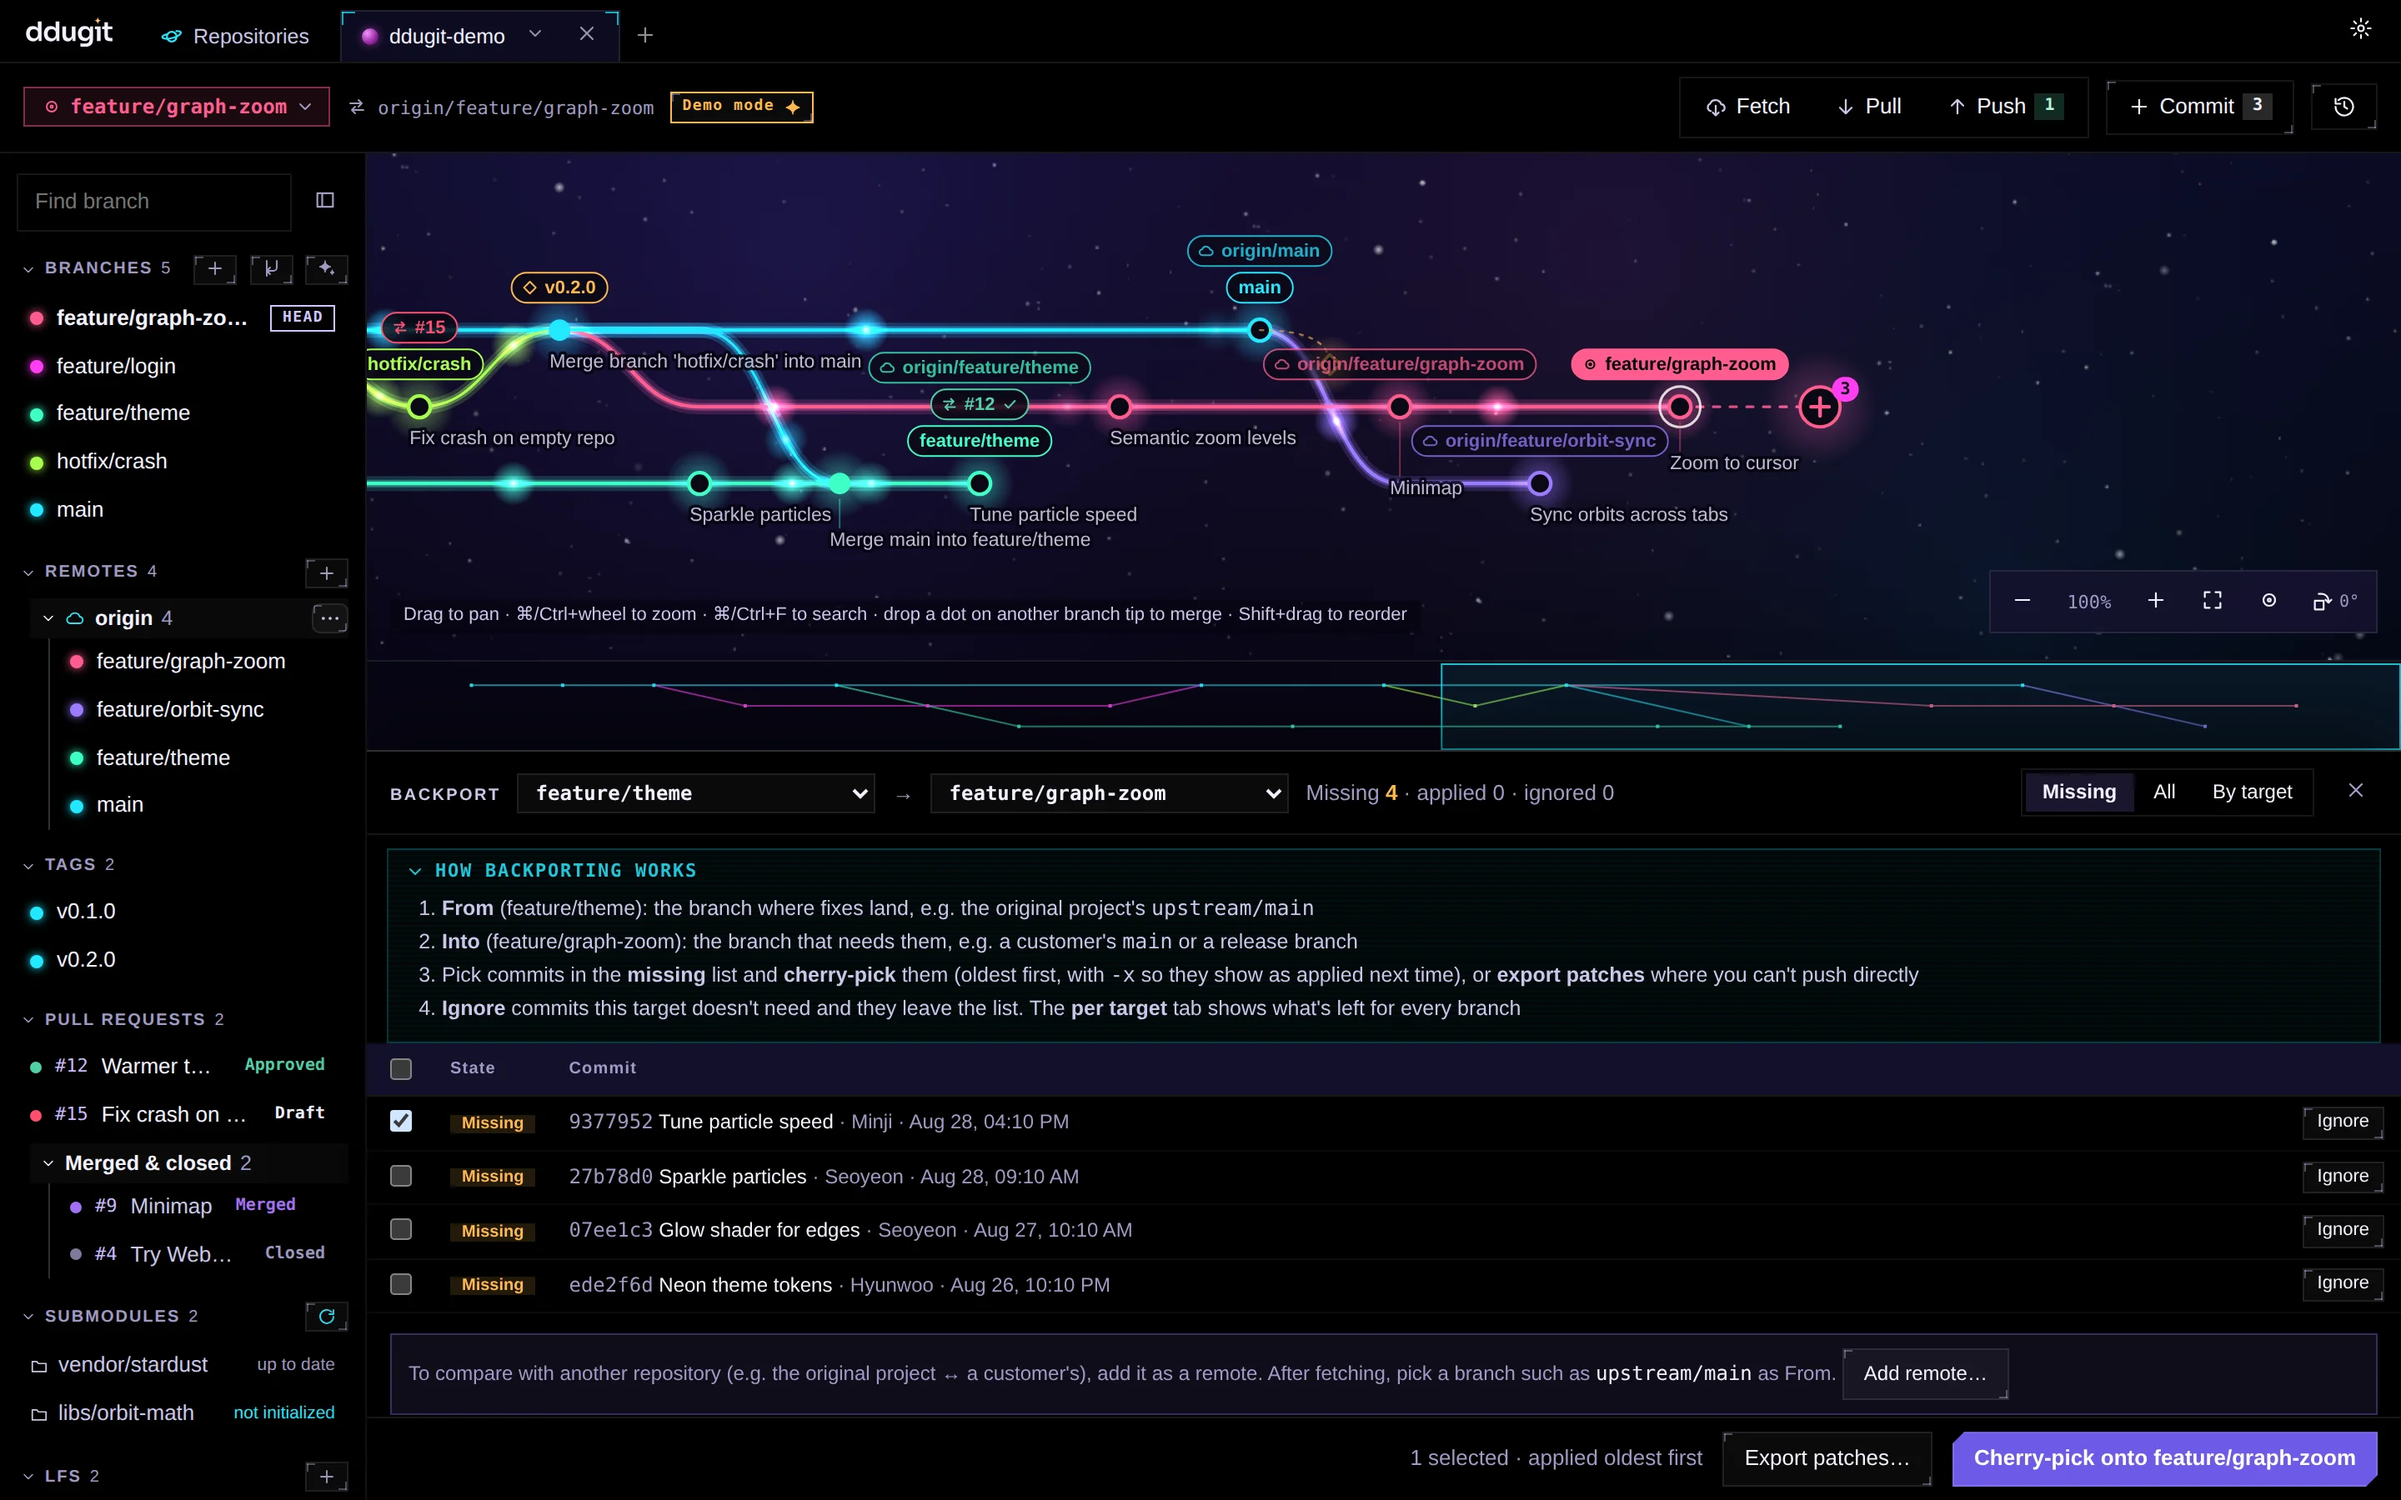
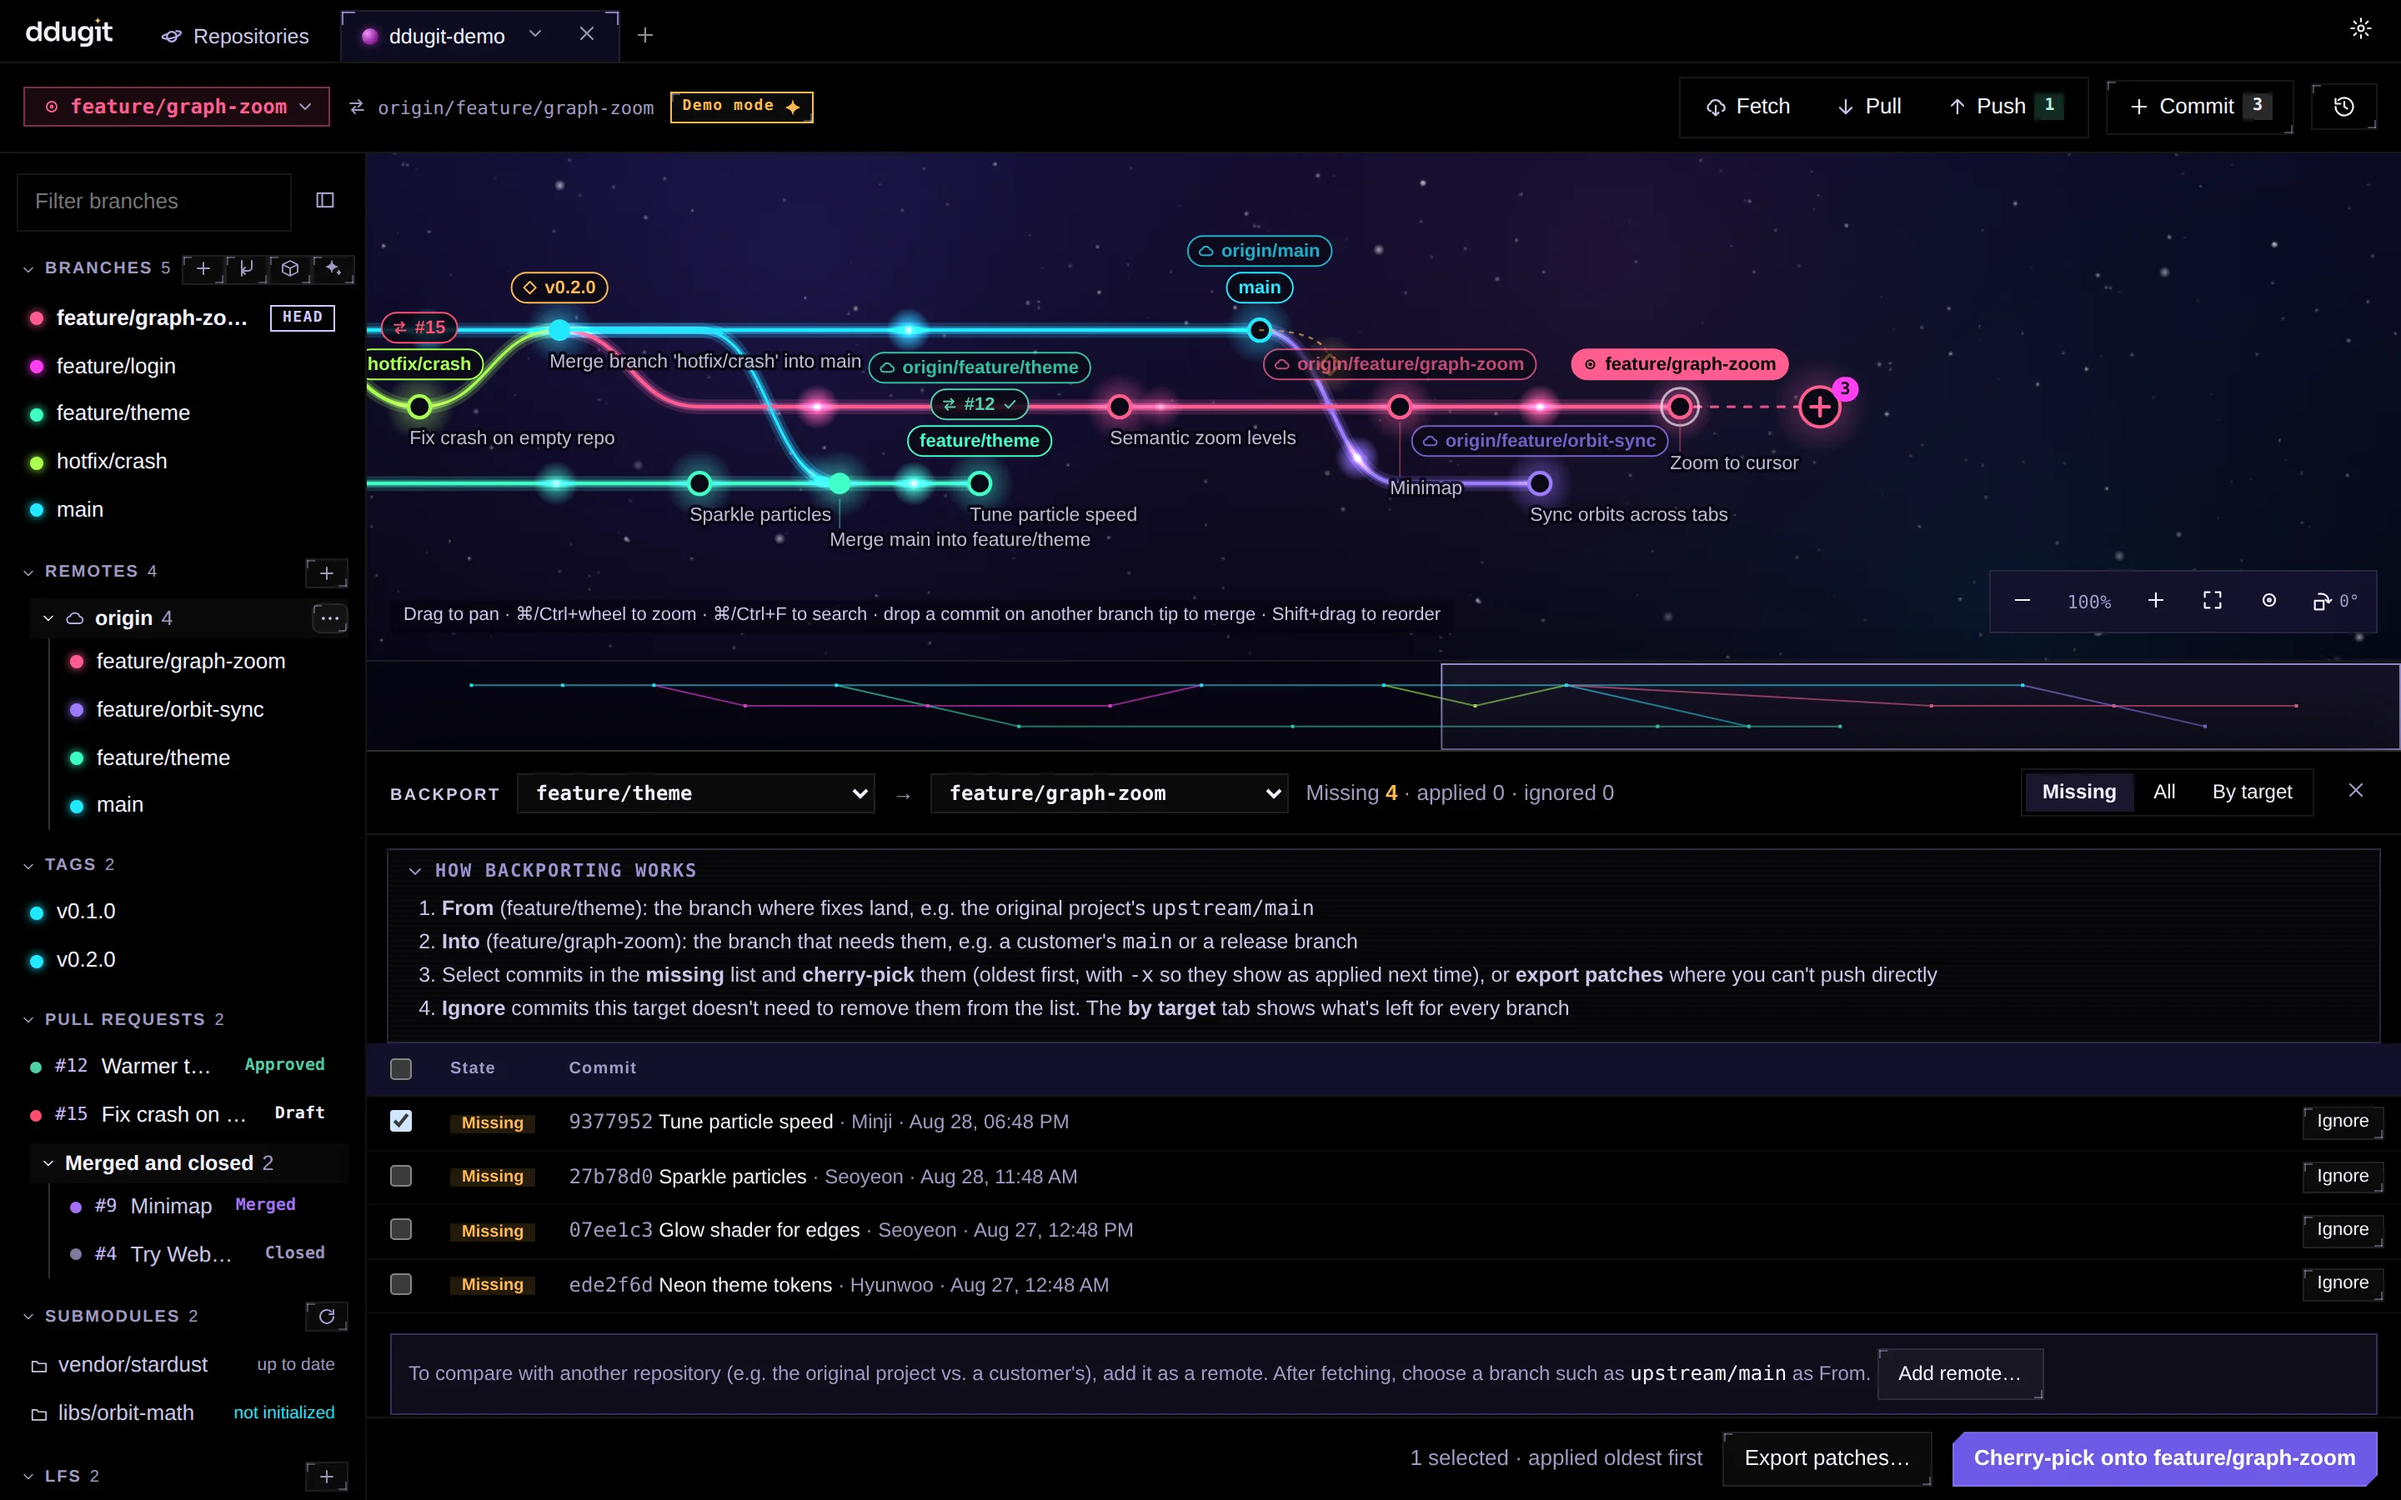
style(site): use the brand Orbit lavender instead of teal, refresh screenshots (#13)
The chrome accent (borders, brackets, hover, focus outline, card eyebrow)
is #b4abf2 like the app. The app screenshots are recaptured with the new
color and the current copy (commit, not checkpoint).

Claude-Session: https://claude.ai/code/session_01E4MAcQxfKZ3joRFfSJW55d

diff --git a/src/app/globals.css b/src/app/globals.css
@@ -6,7 +6,8 @@
   --surface: #000;
   --brand-ink: #f3f1ff;
   --brand-star: #ffc56b;
-  --signal: 34, 232, 255;
+  /* Chrome accent (borders, brackets, hover): the brand Orbit lavender #b4abf2, as in the app. */
+  --signal: 180, 171, 242;
   --bracket: rgba(var(--signal), 0.7);
   --brackets:
     linear-gradient(var(--bracket), var(--bracket)) top left / 10px 1px no-repeat,
@@ -273,7 +274,7 @@ kbd {
   font-size: 14px;
 }
 .card .eyebrow {
-  color: var(--cyan);
+  color: rgb(var(--signal));
 }
 .card.focus {
   border-color: rgba(var(--signal), 0.38);
@@ -378,7 +379,7 @@ ol.steps li {
   filter: brightness(1.15);
 }
 .oauth:focus-visible {
-  outline: 2px solid var(--cyan);
+  outline: 2px solid rgb(var(--signal));
   outline-offset: 2px;
 }
 
